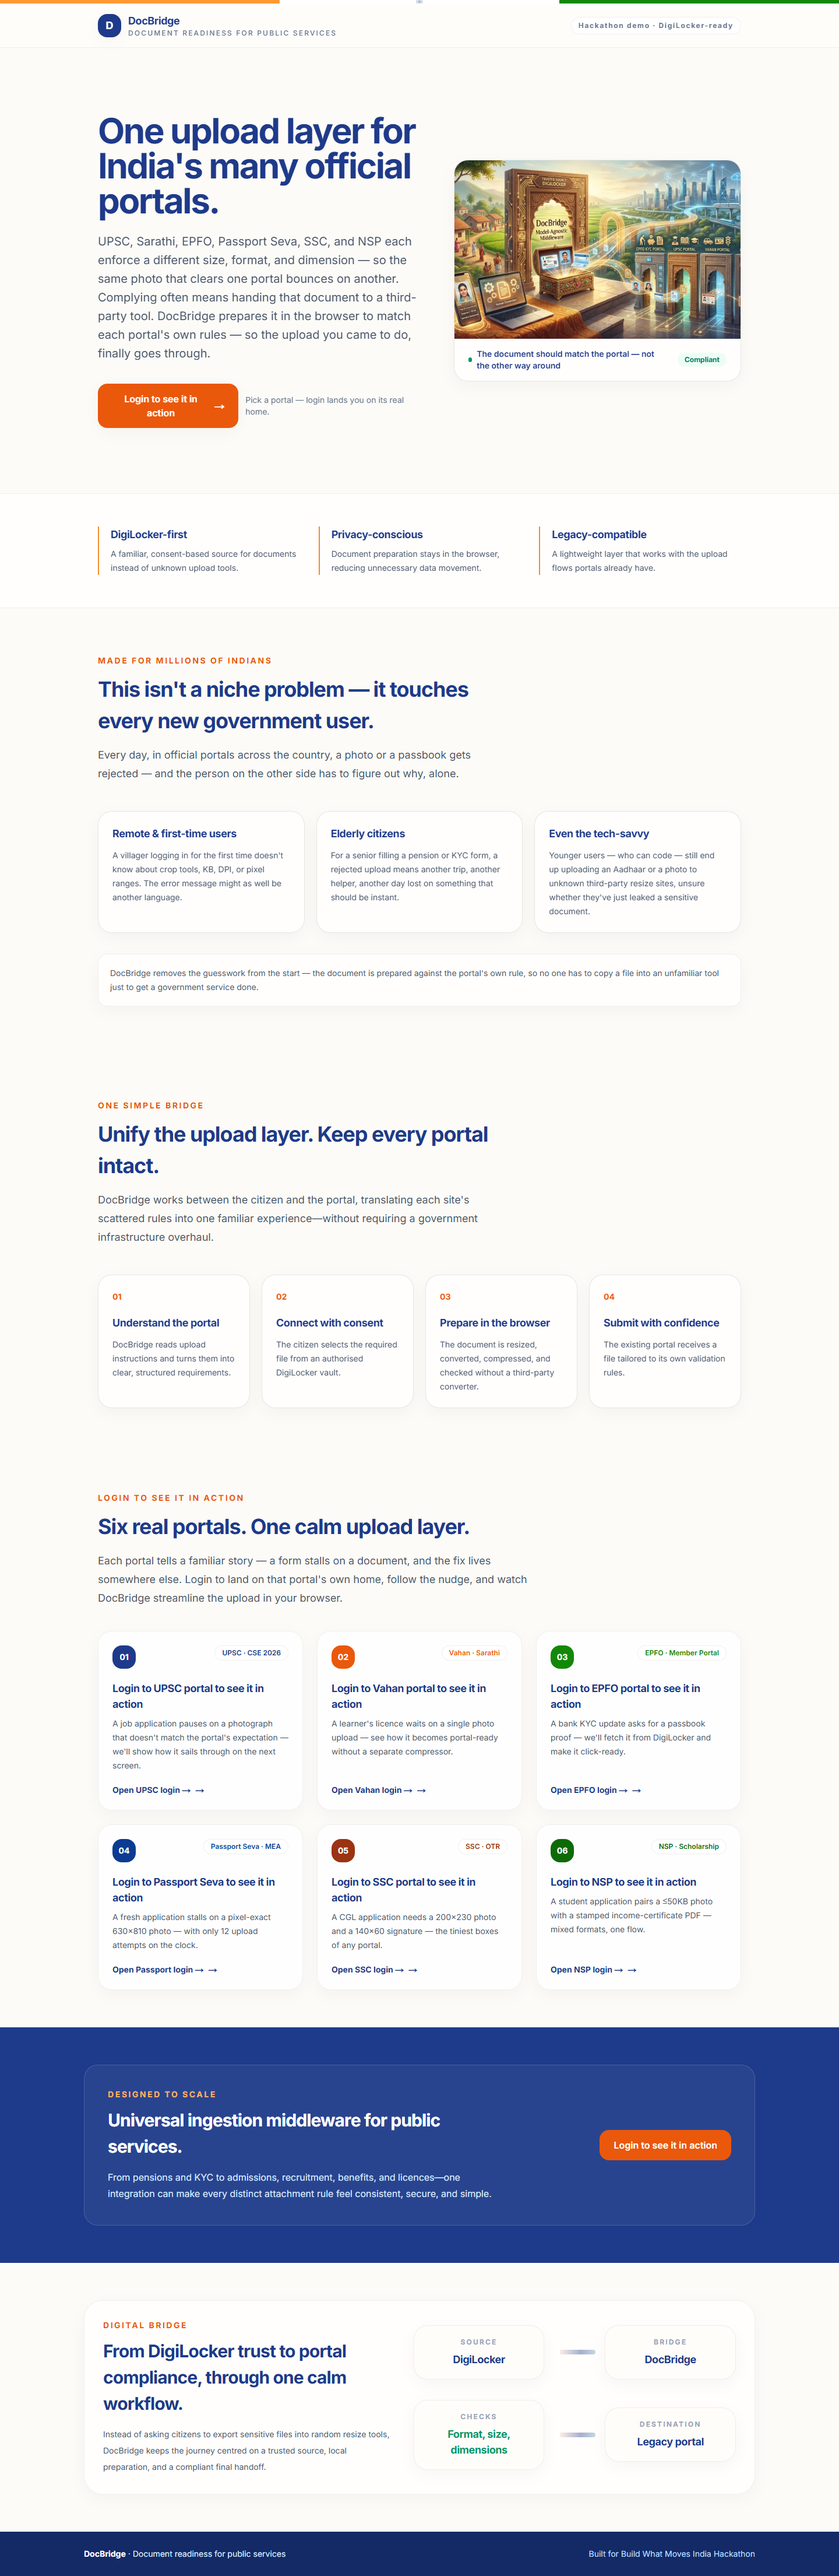
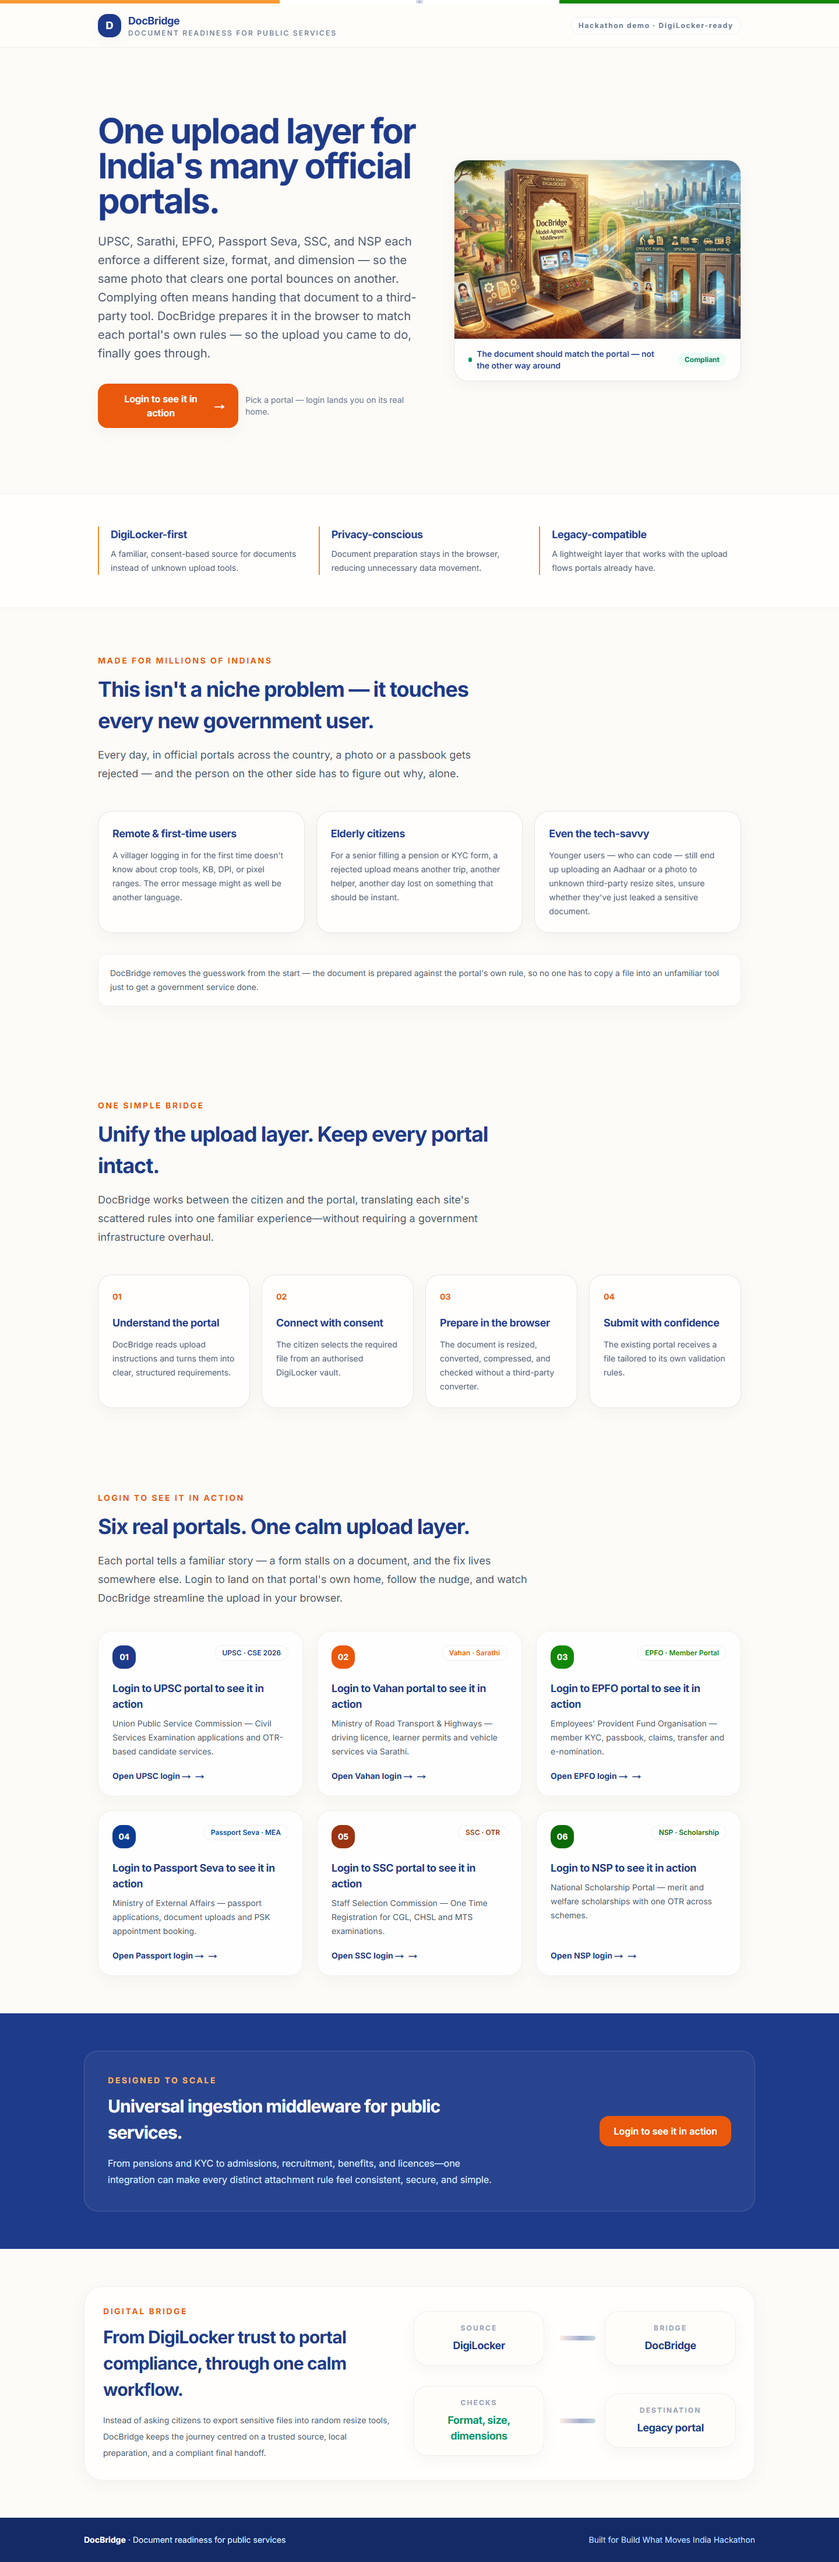
fix: professional portal card copy, drop Zero-storage and 0-calls badge claims

diff --git a/src/app/page.tsx b/src/app/page.tsx
@@ -168,7 +168,7 @@ export default function Home() {
             accent="#1E3A8A"
             eyebrow="UPSC · CSE 2026"
             title="Login to UPSC portal to see it in action"
-            description="A job application pauses on a photograph that doesn&apos;t match the portal&apos;s expectation — we&apos;ll show how it sails through on the next screen."
+            description="Union Public Service Commission — Civil Services Examination applications and OTR-based candidate services."
             href="/upsc"
             cta="Open UPSC login →"
             busy={portalNav === '/upsc'}
@@ -179,7 +179,7 @@ export default function Home() {
             accent="#EA580C"
             eyebrow="Vahan · Sarathi"
             title="Login to Vahan portal to see it in action"
-            description="A learner&apos;s licence waits on a single photo upload — see how it becomes portal-ready without a separate compressor."
+            description="Ministry of Road Transport & Highways — driving licence, learner permits and vehicle services via Sarathi."
             href="/vahan"
             cta="Open Vahan login →"
             busy={portalNav === '/vahan'}
@@ -190,7 +190,7 @@ export default function Home() {
             accent="#138808"
             eyebrow="EPFO · Member Portal"
             title="Login to EPFO portal to see it in action"
-            description="A bank KYC update asks for a passbook proof — we&apos;ll fetch it from DigiLocker and make it click-ready."
+            description="Employees&apos; Provident Fund Organisation — member KYC, passbook, claims, transfer and e-nomination."
             href="/epfo"
             cta="Open EPFO login →"
             busy={portalNav === '/epfo'}
@@ -201,7 +201,7 @@ export default function Home() {
             accent="#0b3c92"
             eyebrow="Passport Seva · MEA"
             title="Login to Passport Seva to see it in action"
-            description="A fresh application stalls on a pixel-exact 630×810 photo — with only 12 upload attempts on the clock."
+            description="Ministry of External Affairs — passport applications, document uploads and PSK appointment booking."
             href="/passport"
             cta="Open Passport login →"
             busy={portalNav === '/passport'}
@@ -212,7 +212,7 @@ export default function Home() {
             accent="#9a3412"
             eyebrow="SSC · OTR"
             title="Login to SSC portal to see it in action"
-            description="A CGL application needs a 200×230 photo and a 140×60 signature — the tiniest boxes of any portal."
+            description="Staff Selection Commission — One Time Registration for CGL, CHSL and MTS examinations."
             href="/ssc"
             cta="Open SSC login →"
             busy={portalNav === '/ssc'}
@@ -223,7 +223,7 @@ export default function Home() {
             accent="#0d6b07"
             eyebrow="NSP · Scholarship"
             title="Login to NSP to see it in action"
-            description="A student application pairs a ≤50KB photo with a stamped income-certificate PDF — mixed formats, one flow."
+            description="National Scholarship Portal — merit and welfare scholarships with one OTR across schemes."
             href="/nsp"
             cta="Open NSP login →"
             busy={portalNav === '/nsp'}
@@ -330,12 +330,12 @@ export default function Home() {
             </div>
 
             <div className="mt-8 grid gap-5 md:grid-cols-3">
-              <ModalPortalCard step="01" accent="#1E3A8A" eyebrow="UPSC · CSE 2026" title="UPSC portal" description="A photograph holds up a job application — watch it become portal-ready in one flow." href="/upsc" cta="Login to UPSC →" busy={portalNav === '/upsc'} onNavigateStart={() => setPortalNav('/upsc')} onNavigate={() => {}} />
-              <ModalPortalCard step="02" accent="#EA580C" eyebrow="Vahan · Sarathi" title="Vahan portal" description="A licence upload waits on one photo — see it streamline without a second tool." href="/vahan" cta="Login to Vahan →" busy={portalNav === '/vahan'} onNavigateStart={() => setPortalNav('/vahan')} onNavigate={() => {}} />
-              <ModalPortalCard step="03" accent="#138808" eyebrow="EPFO · Member Portal" title="EPFO portal" description="A KYC update asks for a passbook — fetched and finished in place." href="/epfo" cta="Login to EPFO →" busy={portalNav === '/epfo'} onNavigateStart={() => setPortalNav('/epfo')} onNavigate={() => {}} />
-              <ModalPortalCard step="04" accent="#0b3c92" eyebrow="Passport Seva · MEA" title="Passport portal" description="A 630×810 photo holds up a fresh application — watch it land pixel-exact." href="/passport" cta="Login to Passport →" busy={portalNav === '/passport'} onNavigateStart={() => setPortalNav('/passport')} onNavigate={() => {}} />
-              <ModalPortalCard step="05" accent="#9a3412" eyebrow="SSC · OTR" title="SSC portal" description="A CGL form waits on two tiny boxes — photo and signature, both exact." href="/ssc" cta="Login to SSC →" busy={portalNav === '/ssc'} onNavigateStart={() => setPortalNav('/ssc')} onNavigate={() => {}} />
-              <ModalPortalCard step="06" accent="#0d6b07" eyebrow="NSP · Scholarship" title="NSP portal" description="A scholarship pairs a small photo with a stamped PDF — both in one flow." href="/nsp" cta="Login to NSP →" busy={portalNav === '/nsp'} onNavigateStart={() => setPortalNav('/nsp')} onNavigate={() => {}} />
+              <ModalPortalCard step="01" accent="#1E3A8A" eyebrow="UPSC · CSE 2026" title="UPSC portal" description="Civil Services Examination applications and OTR-based candidate services." href="/upsc" cta="Login to UPSC →" busy={portalNav === '/upsc'} onNavigateStart={() => setPortalNav('/upsc')} onNavigate={() => {}} />
+              <ModalPortalCard step="02" accent="#EA580C" eyebrow="Vahan · Sarathi" title="Vahan portal" description="Driving licence, learner permits and vehicle services via Sarathi." href="/vahan" cta="Login to Vahan →" busy={portalNav === '/vahan'} onNavigateStart={() => setPortalNav('/vahan')} onNavigate={() => {}} />
+              <ModalPortalCard step="03" accent="#138808" eyebrow="EPFO · Member Portal" title="EPFO portal" description="Member KYC, passbook, claims, transfer and e-nomination." href="/epfo" cta="Login to EPFO →" busy={portalNav === '/epfo'} onNavigateStart={() => setPortalNav('/epfo')} onNavigate={() => {}} />
+              <ModalPortalCard step="04" accent="#0b3c92" eyebrow="Passport Seva · MEA" title="Passport portal" description="Passport applications, document uploads and PSK appointment booking." href="/passport" cta="Login to Passport →" busy={portalNav === '/passport'} onNavigateStart={() => setPortalNav('/passport')} onNavigate={() => {}} />
+              <ModalPortalCard step="05" accent="#9a3412" eyebrow="SSC · OTR" title="SSC portal" description="One Time Registration for CGL, CHSL and MTS examinations." href="/ssc" cta="Login to SSC →" busy={portalNav === '/ssc'} onNavigateStart={() => setPortalNav('/ssc')} onNavigate={() => {}} />
+              <ModalPortalCard step="06" accent="#0d6b07" eyebrow="NSP · Scholarship" title="NSP portal" description="Merit and welfare scholarships with one OTR across schemes." href="/nsp" cta="Login to NSP →" busy={portalNav === '/nsp'} onNavigateStart={() => setPortalNav('/nsp')} onNavigate={() => {}} />
             </div>
 
             <p className="mt-6 rounded-2xl bg-white/60 px-4 py-3 text-xs leading-5 text-slate-500 ring-1 ring-black/5">

diff --git a/src/lib/i18n.tsx b/src/lib/i18n.tsx
@@ -103,8 +103,6 @@ const dict: Record<string, { en: string; hi: string }> = {
   'ov.validSubmit': { en: 'Validating & submitting', hi: 'जाँच व जमा' },
   'ov.almost': { en: 'Almost done…', hi: 'लगभग पूर्ण…' },
   'privacy.title': { en: '100% browser-private', hi: '100% ब्राउज़र-प्राइवेट' },
-  'privacy.sub': { en: 'Zero storage · No training · DigiLocker consent', hi: 'शून्य स्टोरेज · कोई प्रशिक्षण नहीं · DigiLocker सहमति' },
-  'privacy.calls': { en: '0 network calls during processing', hi: 'प्रोसेसिंग में 0 नेटवर्क कॉल' },
   'dl.title': { en: 'Connect DigiLocker', hi: 'DigiLocker जोड़ें' },
   'dl.consent': { en: 'Consent-based fetch. DocBridge never stores your files.', hi: 'सहमति-आधारित प्राप्ति। DocBridge आपकी फ़ाइलें संग्रहित नहीं करता।' },
   'dl.select': { en: 'Select a document to continue', hi: 'आगे बढ़ने हेतु दस्तावेज़ चुनें' },

diff --git a/src/components/ui/PrivacyBadge.tsx b/src/components/ui/PrivacyBadge.tsx
@@ -13,10 +13,6 @@ export default function PrivacyBadge({ compact = false }: { compact?: boolean })
       <span className="flex h-7 w-7 flex-shrink-0 items-center justify-center rounded-full" style={{ backgroundColor: COLORS.successLight, color: COLORS.success }}>🔒</span>
       <div className="flex-1 leading-4">
         <span className="font-bold" style={{ color: COLORS.gray[800] }}>{t('privacy.title')}</span>
-        <span className="mx-1.5 opacity-40">·</span>
-        <span style={{ color: COLORS.gray[600] }}>{t('privacy.sub')}</span>
-        {!compact && <span className="mx-1.5 opacity-40">·</span>}
-        {!compact && <span className="inline-flex items-center gap-1 font-semibold" style={{ color: COLORS.success }}><span className="h-1.5 w-1.5 rounded-full" style={{ backgroundColor: COLORS.success }} /> {t('privacy.calls')}</span>}
       </div>
     </div>
   );

diff --git a/docs/REQUIREMENTS-next-stage.md b/docs/REQUIREMENTS-next-stage.md
@@ -11,7 +11,7 @@
 |---|------|---------|----------|--------|--------|----------|---------|
 | A1 | Before vs After preview (visual) | Text sizes only (`PreviewPanel`) | Side-by-side thumbnails + zoom 2× + metrics + Download | S | H | **Must** | — |
 | A2 | Progress micro-animation | Static overlay | Step labels per `source`+`portal` + bar + shimmer | S | H | **Must** | — |
-| D2 | Privacy badge/mic-copy | README claim | Badge under CTA `🔒 browser-private · Zero storage` | S | H | **Must** | B1 |
+| D2 | Privacy badge/mic-copy | README claim | Badge under CTA `🔒 100% browser-private` | S | H | **Must** | B1 |
 | A3 | Manual Adjust (size presets) | 90° rotate (removed) | Smallest/Balanced/Sharpest within min–max KB, JPEG-only (UPSC/Vahan/Passport/SSC/NSP), re-compress via targetKB | M | H | **Must** | A1 |
 | B1 | Offline local processing | Already 100% client (Canvas/pdf-lib) | Harden: offline badge, no-net assert, doc | S | H | **Must** | — |
 | B2 | Smart up-scaling fallback | Downscale only | Enhance if <70% target px; sharpen/Canvas, lazy WASM | M | M | **Should** | A3 |

diff --git a/docs/PRD-next-stage.md b/docs/PRD-next-stage.md
@@ -67,7 +67,7 @@ One consent-based upload layer that makes any portal upload just work — DigiLo
 
 **D2 — Privacy Assurance Dashboard (Trust Badge)**
 - *Current:* Claims in README only.
-- *Required:* Micro-disclaimer + badge under Upload button: `🔒 100% browser-private · Zero storage · No training · Source: DigiLocker (consent)` + link to `/privacy` modal. Show `storage: none` + `network: 0 calls` checkmark derived from B1.
+- *Required:* Micro-disclaimer + badge under Upload button: `🔒 100% browser-private` + link to `/privacy` modal.
 - *Accept:* Badge visible on every `idle`/`previewing` state; copy vetted; no dark pattern.
 
 ## 4. Non-Functional
